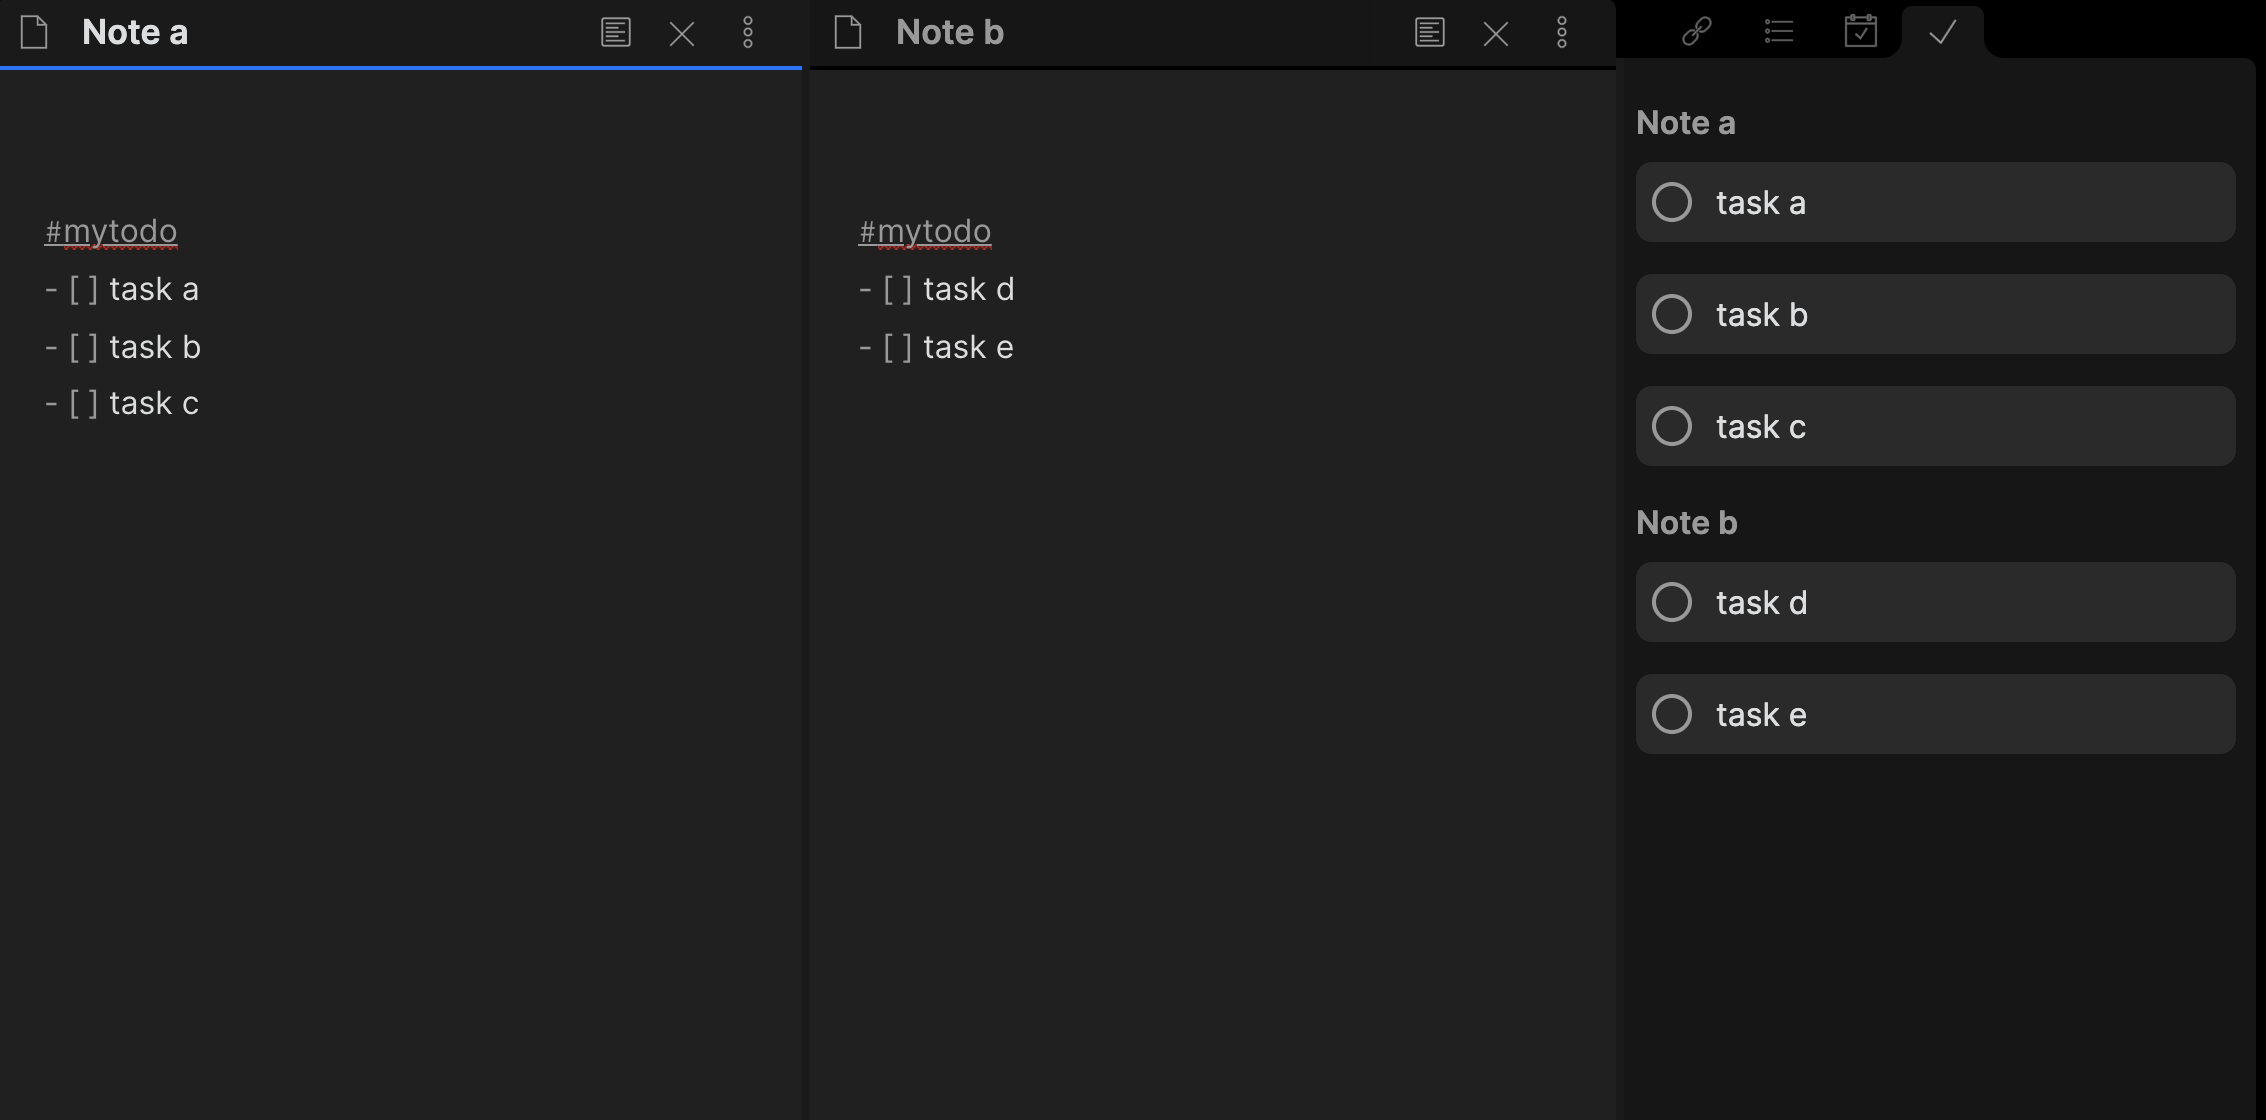
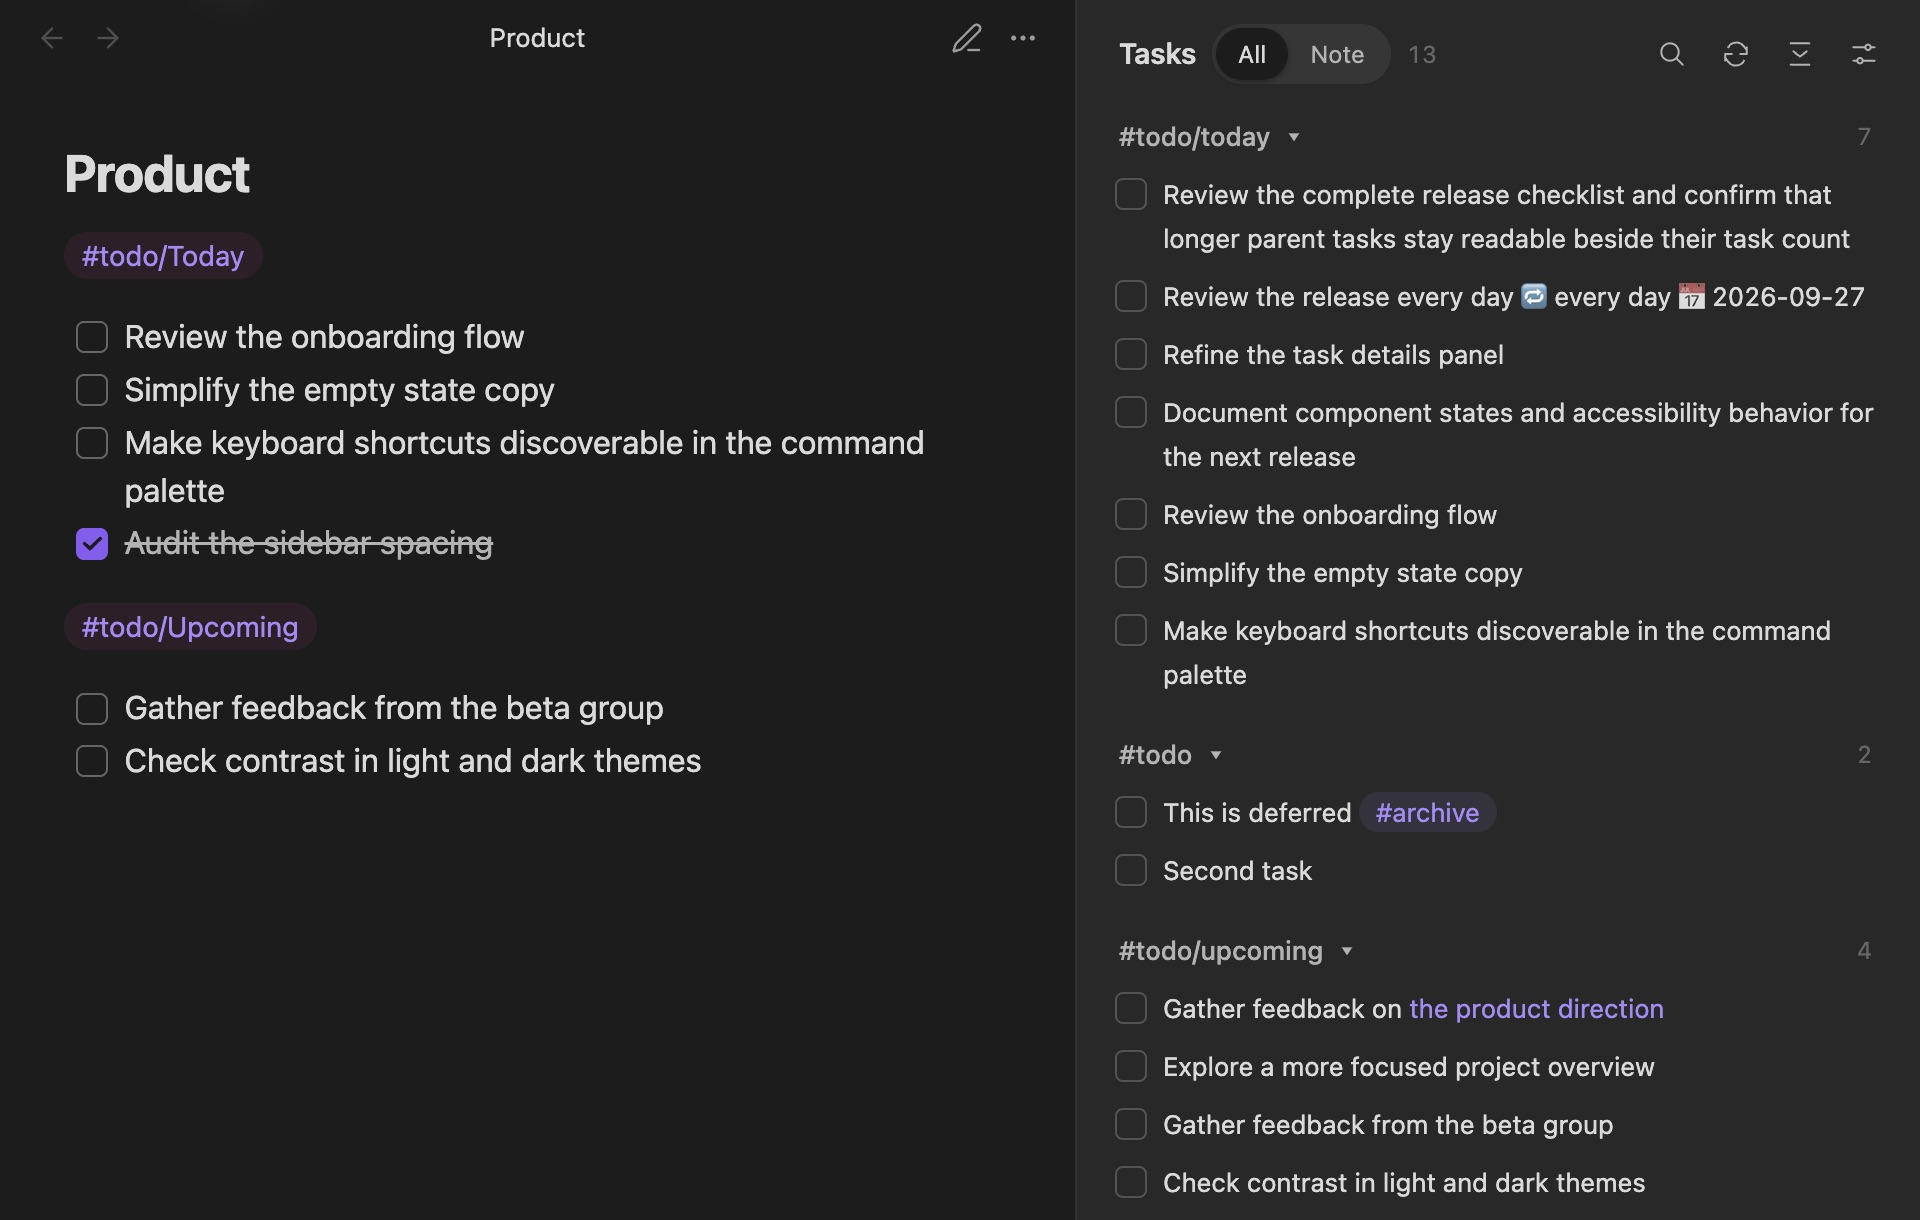
Streamline README and refresh screenshots for Checklist 3.0

diff --git a/README.md b/README.md
@@ -1,43 +1,50 @@
 # Checklist for Obsidian
 
-A task sidebar that stays connected to your notes. Find, organize, and complete Markdown tasks without moving them into a separate system.
+This plugin brings checklists from across your notes into a single sidebar. Check things off, find the note they came from, and organize the list how you like.
 
-> **Checklist 3.0** requires Obsidian 1.5.0 or later. Existing preferences are preserved; new organization features are opt-in.
+![Checklist showing tasks from multiple notes beside the current note](images/screenshot-two-files.png)
 
-## Get started
+## Usage
 
-Requires Obsidian **1.5.0 or later**. Open Checklist from the ribbon or **Checklist: Show Checklist pane** in the command palette. Existing panes restore in their saved position; enabling or updating the plugin does not create extra panes.
+Install **Checklist** from Obsidian’s community plugins and enable it. Open the sidebar from the ribbon or run **Checklist: Show Checklist pane** from the command palette. Requires Obsidian 1.5.0 or later.
 
-By default, Checklist finds tasks in blocks tagged `#todo`, including children of tagged tasks:
+By default, blocks of checklist items tagged with `#todo` appear in the sidebar:
 
 ```markdown
-- [ ] Prepare the release #todo/next
-  - [ ] Review the sidebar
-  - [ ] Write release notes
+#todo
+- [ ] Review the sidebar
+- [ ] Write release notes
 ```
 
-A standalone tag applies to the following block, through the next blank line. A matching tag in a note’s `tags` property includes the whole note. Enable **Include all tasks in matching notes** to use any matching tag as a note-wide selector. Code examples and frontmatter are not tasks.
+A standalone tag applies until the next blank line. You can also tag individual tasks, use nested tags like `#todo/next`, or put a tag in a note’s `tags` property to include the whole note.
 
-## Work from the sidebar
+Check items off in your note or in the sidebar; both update the same Markdown file. Completed tasks stay visible for one second so you can uncheck an accidental click. Click the task text to jump to its source line.
 
-- **All notes / This note** switches scope immediately.
-- The header’s **Search** icon opens a search field that matches task text, note paths, and tags. Each word must match; use × to clear or Escape to close. Click an inline tag to search for it.
-- **Display** controls Page, Tag, or Folder grouping; sub-grouping; sorting; completed tasks; source-note labels; and folder focus.
-- **Nested groups** groups pages by tag, or tags/folders by page. Task children remain attached to their parents when sorting. A child whose parent is filtered out becomes a root task.
-- Click a group heading to collapse it. The toolbar expands or collapses all groups, including nested groups. Subtasks also have their own collapse control.
-- Click a task to open and reveal its line. Click a source-note label or the separate open-note icon to navigate. Wiki links resolve relative to the task’s note.
-- Complete a task with its native checkbox. **Delay completion** gives you one second to undo before a hidden completed task disappears; turn it off in Display → Options for immediate removal. Checklist checks that the original line is unchanged and updates the note atomically. It will ask you to refresh a stale task rather than write to a different line.
-- **Refresh** is available in the toolbar and command palette. A note that cannot be read does not prevent other notes from loading; the pane shows a retry message.
+Use **All / Note** to switch scope, or search task text, note paths, and tags. Click an inline tag to search for it.
 
-Large lists initially render 200 distinct tasks. **Show more tasks** expands the list in batches. Search and filters always operate on the full cached collection, and the header count includes all matching tasks.
+## Configuration
 
-## Choose what appears
+Open the sidebar’s **Display options** for everyday controls. Tag sources, file patterns, and integrations live in **Settings → Checklist**.
 
-**Included tags:** one per line, with or without `#`. A filter such as `todo/next` matches `#todo/next` and its descendants, but not `#todo/next-week`. Leave empty to capture all tasks; tag grouping still recognizes inline and block tags.
+<img src="images/screenshot-settings.png" alt="Display options for grouping, sorting, task visibility, completion delay, and folder filtering" width="320">
 
-**Excluded tags:** one per line. Exclude a task or tagged block (including children) using tags such as `archive` or `ignore`. An excluded tag in note properties excludes the whole note. This hides tasks without marking them complete.
+**Grouping:** Group by Tag, Page, or Folder, or choose None for one list. Add a different sub-grouping if you want a second level. Click the arrow to collapse a group.
 
-**File patterns:** newline-separated [minimatch](https://github.com/isaacs/minimatch) globs. Positive patterns are alternatives; negative patterns always exclude. With no positive pattern, all notes are eligible.
+**Sorting:** Sort by name, file creation time, or recent modification. Tasks can also follow their order in the note; tag groups can follow your configured tag order. **Groups** sorts both grouping levels.
+
+**Options:** Show sub-tasks, task counts, completed tasks, or source-note labels. **Show sub-tasks** includes children of tagged tasks and displays an expandable tree. Turn off **Delay completion** to hide completed tasks immediately.
+
+**Included / excluded tags:** One per line, with or without `#`. `todo/next` matches that tag and its descendants, but not `todo/next-week`. Leave Included tags empty to show all tasks. Excluded tags hide matching tasks and blocks; an excluded property tag hides the whole note.
+
+**Include all tasks in matching notes:** Include every task in a note containing a matching tag, rather than just its tagged tasks and blocks.
+
+**Limit to folder:** Enter a vault-relative folder to include it and its subfolders. Clear the field to show all folders. You can also right-click a folder in the file explorer to focus Checklist there.
+
+Defaults keep tag grouping, newest-created ordering, and a flat task list. Existing preferences are preserved on upgrade; nested groups, sub-tasks, source notes, and Tasks integration are opt-in.
+
+## File patterns
+
+Use one [minimatch](https://github.com/isaacs/minimatch) glob per line in **File patterns**. Positive patterns include files; `!` patterns exclude them. Leave empty to include every note.
 
 ```text
 Projects/**
@@ -46,31 +53,15 @@ Daily/**
 !Daily/Templates/**
 ```
 
-**Limit to folder:** enter a vault-relative folder in Display, or right-click a folder in Obsidian’s file explorer and choose **Focus Checklist on this folder**. Subfolders are included. Remove the folder chip to clear the focus.
+With only exclusion patterns, everything else is included.
 
-**Sorting:** use source order for tasks, alphabetical order, file creation time, or recent modification time. **Configured tag order** follows the order of Included tags. The **Groups** sort applies to both groups and sub-groups. Existing sorting preferences are preserved; new installations default to newest-created first.
+## Tasks integration
 
-## Optional Tasks integration
-
-Enable **Complete with Tasks** in Checklist settings to use [Tasks](https://github.com/obsidian-tasks-group/obsidian-tasks) **7.2 or later**. Checklist delegates completion to the [documented Tasks API](https://github.com/obsidian-tasks-group/obsidian-tasks/blob/main/docs/Advanced/Tasks%20Api.md), including completion dates and recurring occurrences, then atomically saves the returned Markdown.
-
-This setting is off by default. If enabled while Tasks is unavailable, Checklist shows a message instead of silently using ordinary checkbox completion. Tasks controls its own completion behavior and date preferences. Checklist still treats nonblank checkbox markers as completed; it does not supply a custom-status editor or status-specific filtering.
-
-## Commands and appearance
-
-Commands can be assigned hotkeys in Obsidian:
-
-- Show Checklist pane
-- Refresh List
-- Toggle current file only
-- Toggle completed tasks
-- Focus a tag (choose among configured tags)
-
-Checklist uses Obsidian’s interface font, theme colors, focus accents, and touch targets. A single consistent row size is used throughout. CSS snippets can adjust `--checklist-contentFontSize` and `--checklist-row-padding` on `.checklist-plugin-main`.
+Enable **Complete with Tasks** to use the [Tasks plugin](https://github.com/obsidian-tasks-group/obsidian-tasks) for completion dates and recurring tasks. Requires Tasks 7.2 or later. This is optional and off by default; custom-status filtering is not supported.
 
 ## Development
 
-Use Node **20.19+** (Node 24 recommended).
+Use Node 20.19+:
 
 ```sh
 npm ci
@@ -78,10 +69,6 @@ npm test
 npm run build
 ```
 
-`npm run dev` watches source files. Install `main.js`, `styles.css`, and `manifest.json` in a test vault’s `.obsidian/plugins/obsidian-checklist-plugin/`, then reload Obsidian. Do not replace your plugin settings file when trying a build.
+`npm run dev` watches source files. Copy `main.js`, `styles.css`, and `manifest.json` into a test vault’s `.obsidian/plugins/obsidian-checklist-plugin/` and reload Obsidian.
 
-See [the 3.0 release notes](RELEASE-3.0.md) for scope, issue attribution, validation, and compatibility. The hierarchy implementation incorporates the work in [PR #213](https://github.com/delashum/obsidian-checklist-plugin/pull/213) by SeanYHan888.
-
-New installs keep the tag grouping and newest-first ordering. Saved choices are preserved on upgrade. Nested groups, source-note labels, folder focus, and Tasks integration are opt-in. Choose **Grouping → None** for a single list without group headers, or choose **Sub-grouping → None** to keep only the primary groups.
-
-**Show sub-tasks** is off by default: included tasks stay flat, and tagging a parent does not automatically include untagged children, matching the previous release. Turn it on to include those children and display expandable task trees. Existing tag/block/whole-note filters still apply.
+Thanks to [SeanYHan888](https://github.com/SeanYHan888) for the sub-task hierarchy work in [#213](https://github.com/delashum/obsidian-checklist-plugin/pull/213).
